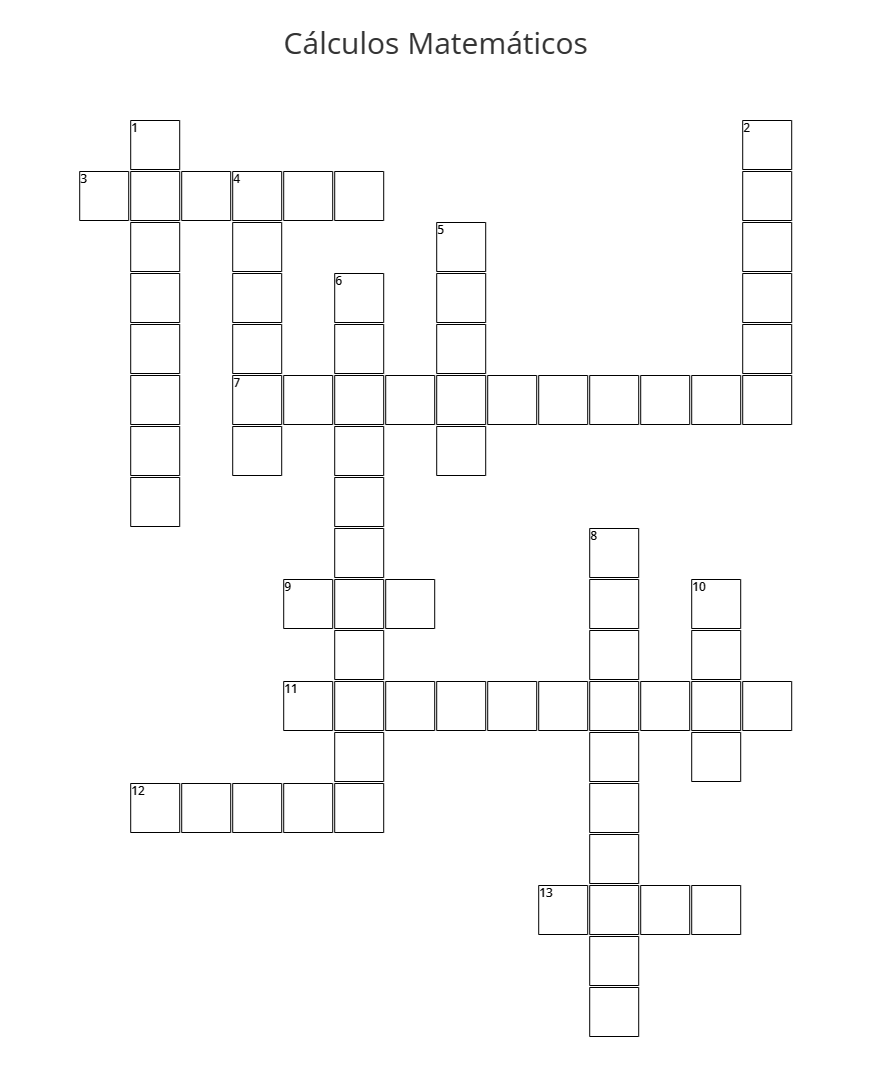
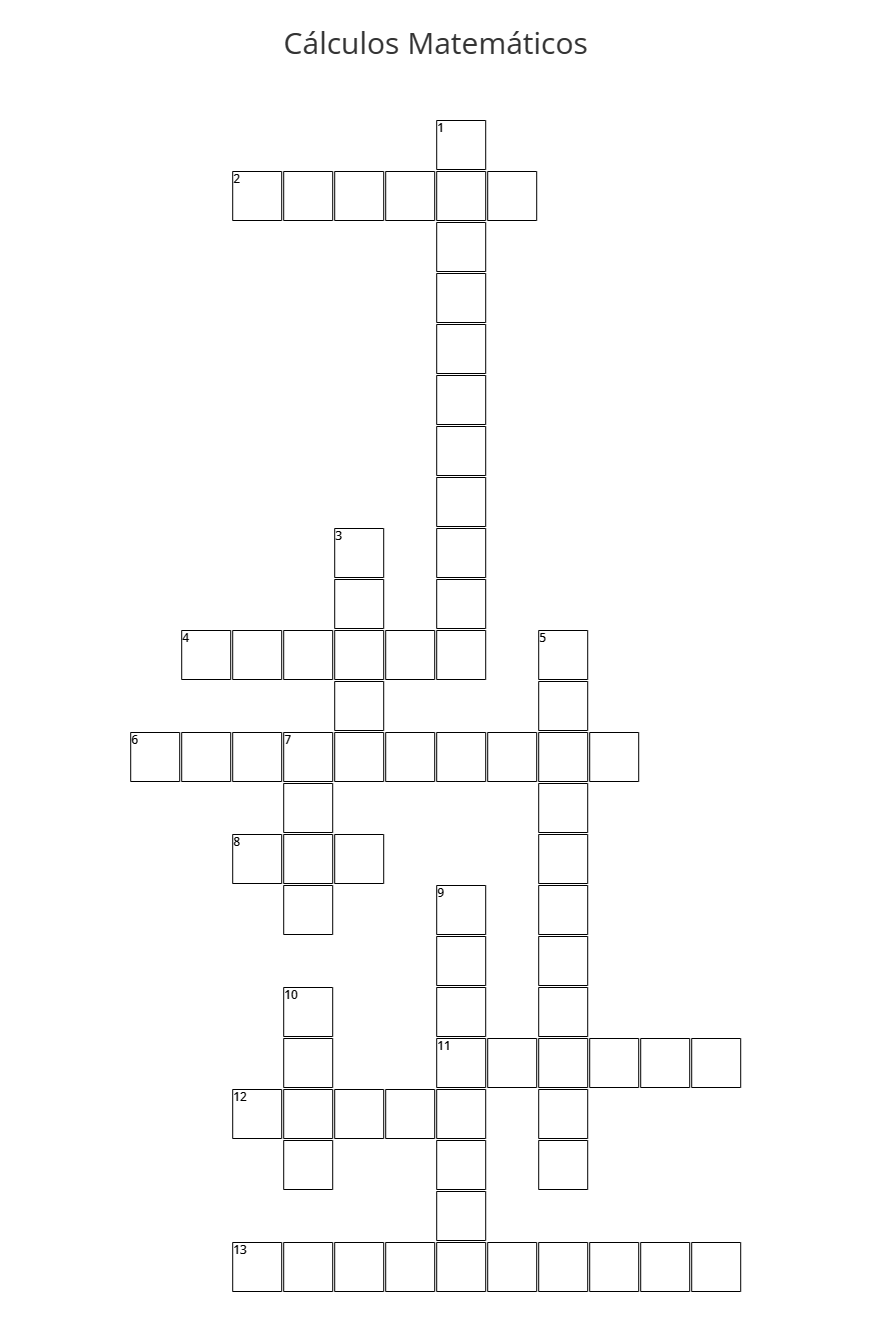
bug fixed and adjustments

diff --git a/index.html b/index.html
@@ -96,7 +96,7 @@
           </div>
         
           <iframe
-            src="https://www.educolorir.com/crosswords/clculos_matemticos-3f8ab0c680e79611b6b2cff9b007cdc0/embed"
+            src="https://www.educolorir.com/crosswords/clculos_matemticos-0d4569529abc91ab3aa2061078ca14c6/embed"
             title="Palavras Cruzadas - Cálculos"
             frameborder="0"
             marginheight="0"
@@ -109,7 +109,7 @@
               allow-top-navigation
             "
           >
-            <a href="https://www.educolorir.com/crosswords/clculos_matemticos-3f8ab0c680e79611b6b2cff9b007cdc0/embed" target="_blank"></a>
+            <a href="https://www.educolorir.com/crosswords/clculos_matemticos-0d4569529abc91ab3aa2061078ca14c6/embed" target="_blank"></a>
           </iframe>
         </div>
       </article>

diff --git a/styles/print-style.css b/styles/print-style.css
@@ -34,6 +34,7 @@
     width: 100vw;
     max-width: 100%;
     height: 100%;
+    padding: 7px 0;
     box-shadow: none;
     background-color: transparent;
   }
@@ -46,13 +47,15 @@
     height: 100%;
     padding: 0;
     border-color: var(--blue1);
-    font-size: 4.5em;
+    font-size: 4em;
     text-transform: uppercase;
   }
 
   header::after {
-    content: 'Edição Nº 1 - Itinerário Formativo: Start! Hora do Desafio';
-    padding: 0px 10px;
+    display: block;
+    content: 'Edição Especial Limitada - Itinerário Formativo: Start! Hora do Desafio';
+    padding: 0 10px 3px 10px;
+    border-bottom: 4px solid black;
     font-size: .7em;
   }
 

diff --git a/styles/main-style.css b/styles/main-style.css
@@ -169,7 +169,7 @@ section h2 {
   border-bottom: 2px solid var(--blue1);
   border-left: 2px solid var(--blue1);
   margin-bottom: 8px;
-  font-size: 1.3em;
+  font-size: 1.4em;
 }
 
 section h3 {
